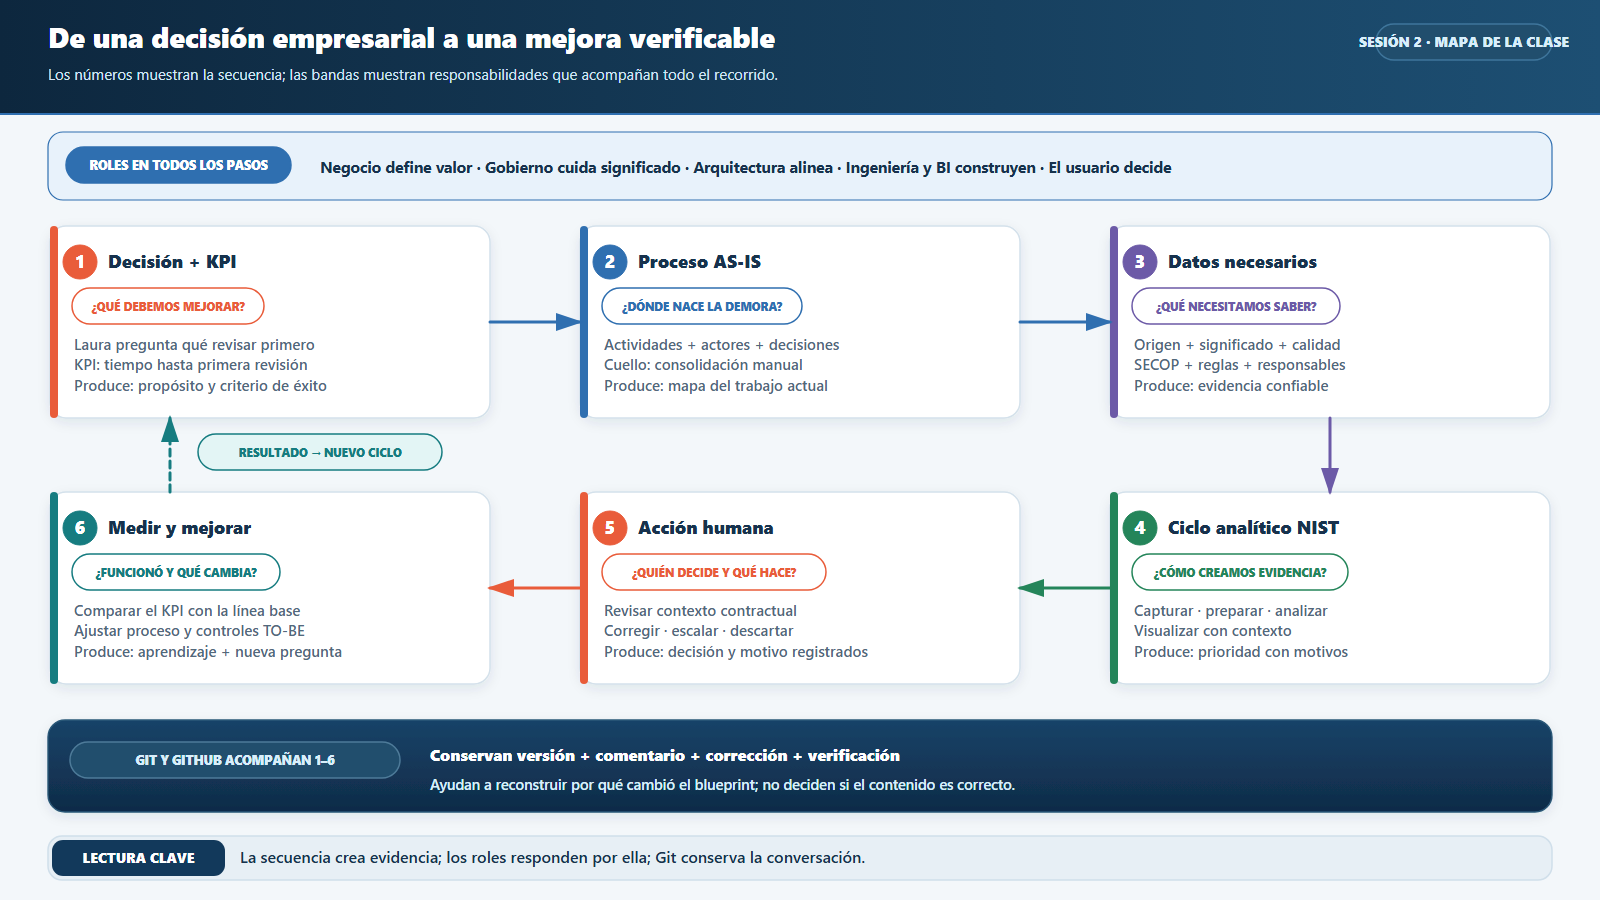
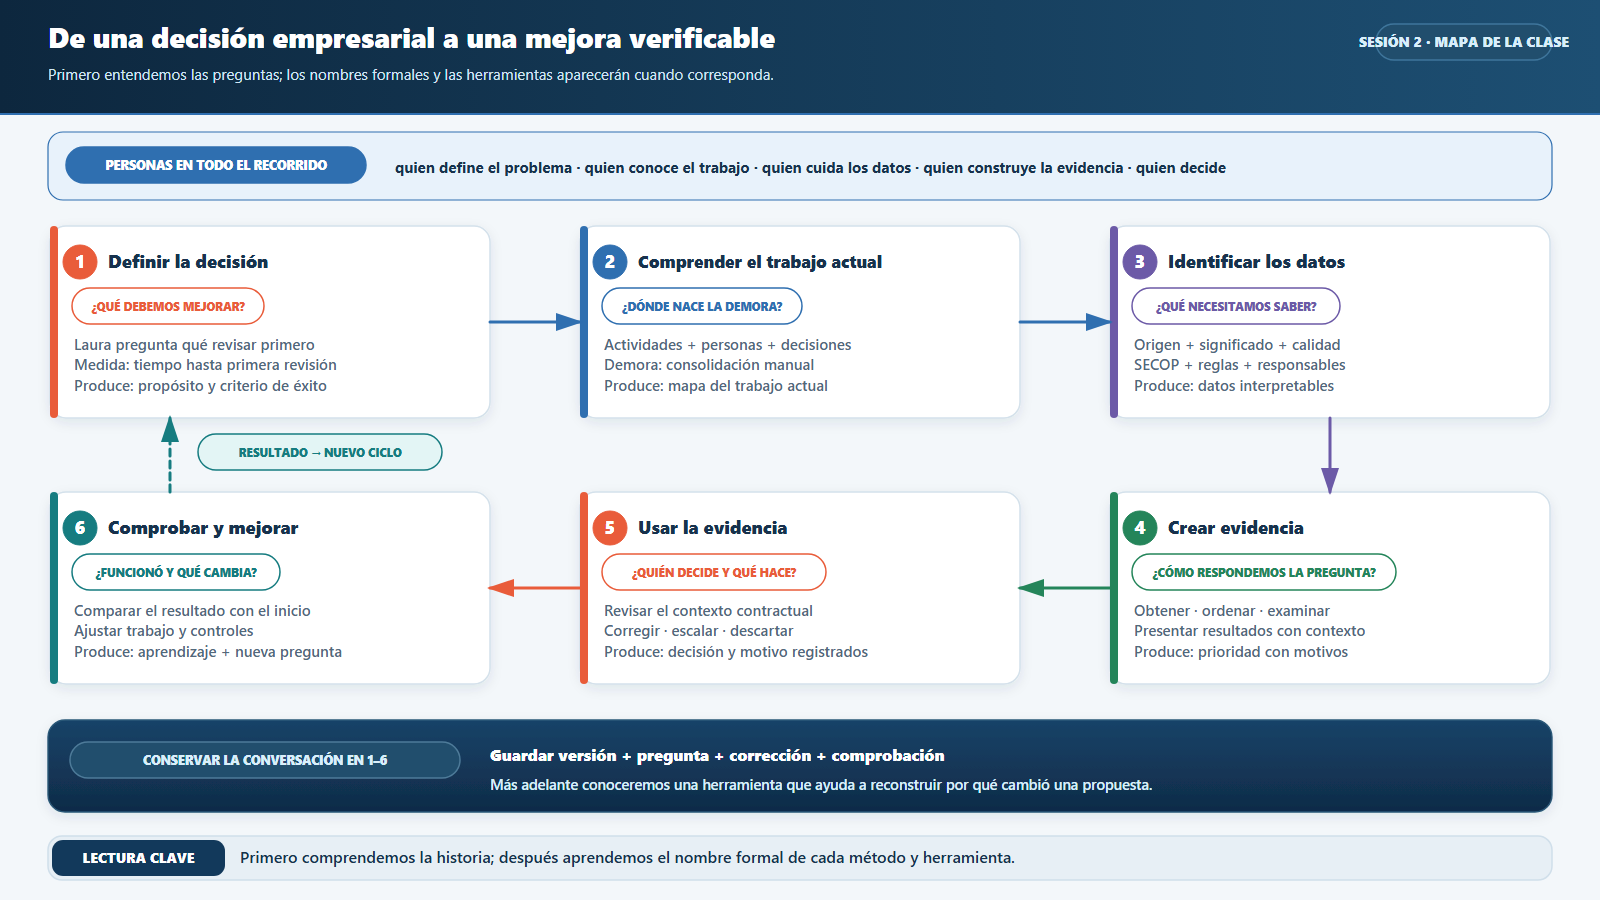
Evita conceptos adelantados en el mapa inicial

diff --git a/utils/build_session2_notebook.py b/utils/build_session2_notebook.py
@@ -155,6 +155,9 @@ def build_cells():
             8. explicar cómo rama, commit, Pull Request, revisión y CI pueden conservar la conversación entre roles;
             9. comunicar límites: una alerta descriptiva prioriza revisión, pero no prueba causalidad ni irregularidad.
 
+            > **No necesitas conocer todavía todas estas expresiones.** Los objetivos nombran el destino de la clase;
+            > cada concepto se definirá, ejemplificará y aplicará antes de pedirte que lo uses.
+
             **Producto de la sesión:** el primer hito del proyecto semestral: blueprint de Compras Claras y ficha de
             transferencia a un caso laboral. Cada decisión queda explicada, revisada y reproducible; no se elegirá
             una plataforma Big Data sin demostrar primero por qué la organización la necesita.
@@ -171,14 +174,16 @@ def build_cells():
 
             El orden de la clase sigue el viaje real de esa evidencia:
 
-            1. **La decisión** define para qué necesitamos información y qué KPI permitirá evaluar la mejora.
+            1. **La decisión** define para qué necesitamos información y qué medida permitirá evaluar la mejora.
             2. **La motivación y la preparación** comprueban si Big Data responde a una necesidad o solo a una moda.
-            3. **El proceso BPM** muestra quién trabaja, dónde se decide y en qué actividad nace cada dato.
+            3. **El trabajo actual** muestra quién participa, dónde se decide y en qué actividad nace cada dato.
             4. **El caso de uso** conecta usuario, decisión, evidencia, acción y valor verificable.
-            5. **BI tradicional frente a Big Data** se decide por requisitos, no por prestigio de la herramienta.
-            6. **La arquitectura y el ciclo NIST** asignan capacidades, controles y responsables de extremo a extremo.
-            7. **Los roles conversan** sobre el blueprint; Git y GitHub permiten conservar propuesta, objeción,
-               corrección y validación sin convertir los comandos en el objetivo de aprendizaje.
+            5. **La capacidad suficiente** se elige por requisitos, no por prestigio de la herramienta.
+            6. **La organización de la solución** conecta negocio, datos, herramientas, infraestructura y el recorrido
+               de la evidencia hasta una acción.
+            7. **Las personas conversan** sobre la propuesta y necesitan conservar preguntas, correcciones y acuerdos.
+
+            Los nombres formales de estas ideas aparecerán en su bloque, después de comprender el problema que resuelven.
 
             **Punto de partida.** No se presupone experiencia previa en Bash, Git, nube o contenedores. El flujo
             principal se realiza en GitHub.com. Los estados internos de Git y la terminal aparecen solo como
@@ -194,14 +199,14 @@ def build_cells():
 
             | Minutos | Pregunta que conduce el bloque | Resultado |
             |---:|---|---|
-            | 0–8 | ¿Qué debe decidir la analista y cómo sabrá si mejora? | responsable, alcance y KPI |
+            | 0–8 | ¿Qué debe decidir la analista y cómo sabrá si mejora? | responsable, alcance y medida de éxito |
             | 8–20 | ¿Por qué adoptar Big Data y qué debe estar preparado? | motivación, valor, viabilidad y riesgos |
-            | 20–37 | ¿Qué ocurre hoy y quién responde por cada parte? | proceso AS-IS, roles, datos y cuello de botella |
-            | 37–50 | ¿Qué caso de uso existe y basta la BI actual? | ficha del caso y decisión de suficiencia |
-            | 50–65 | ¿Cómo se alinean todas las piezas? | arquitectura empresarial TO-BE |
-            | 65–77 | ¿Cómo recorre la evidencia el ciclo analítico? | cinco etapas de NIST |
+            | 20–37 | ¿Qué ocurre hoy y quién responde por cada parte? | trabajo actual, personas, datos y cuello de botella |
+            | 37–50 | ¿Qué caso de uso existe y basta la capacidad actual? | ficha del caso y decisión de suficiencia |
+            | 50–65 | ¿Cómo se relacionan todas las piezas? | organización objetivo de la solución |
+            | 65–77 | ¿Cómo pasan los datos a convertirse en una acción? | cinco etapas conectadas y sus responsables |
             | 77–84 | ¿Qué capacidades y herramientas son proporcionales? | alternativas justificadas |
-            | 84–90 | ¿Cómo conversan los roles sin perder lo acordado? | Git/GitHub como puente de colaboración |
+            | 84–90 | ¿Cómo conversa el equipo sin perder lo acordado? | propuesta, comentario, corrección y versión |
 
             ### Últimos 90 minutos — construir evidencia
 
@@ -210,9 +215,9 @@ def build_cells():
             | 90–98 | Abrir el repositorio y reconocer artefactos | archivos y roles temporales identificados |
             | 98–118 | Analizar decisión, evidencia, proceso y KPI | primer artefacto argumentado |
             | 118–138 | Formular caso y veredicto BI/Big Data | suficiencia sustentada con requisitos |
-            | 138–153 | Completar arquitectura, NIST y responsabilidades | segundo artefacto coherente |
+            | 138–153 | Organizar la solución, el recorrido de la evidencia y las responsabilidades | segundo artefacto coherente |
             | 153–165 | Revisar desde el rol contrario | objeción y corrección justificadas |
-            | 165–175 | Observar comentario, cambio y versión en GitHub | conversación conservada en un PR |
+            | 165–175 | Observar comentario, cambio y versión compartida | conversación conservada para revisión |
             | 175–180 | Ticket de salida | decisión, rol crítico y límite |
             """
         ),
@@ -404,43 +409,46 @@ def build_cells():
             f"""
             ## El hilo que seguiremos durante toda la sesión
 
-            {diagram('01_hilo_decision', 'Secuencia de la Sesión 2: decisión, proceso actual, datos, ciclo NIST, acción humana y mejora; roles y Git aparecen como soportes transversales')}
+            {diagram('01_hilo_decision', 'Historia de la Sesión 2 en lenguaje cotidiano: definir la decisión, comprender el trabajo, identificar datos, crear evidencia, usarla y comprobar la mejora')}
 
             ### Antes de seguir las flechas
 
             La imagen contiene **tres tipos de información diferentes**. No deben leerse como una sola lista:
 
             - las **seis tarjetas numeradas** forman la secuencia principal del caso;
-            - la **banda superior** indica que los roles participan durante todo el recorrido, no en un paso aislado;
-            - la **banda inferior** indica que Git y GitHub pueden conservar versiones y conversaciones durante los
-              seis pasos; no son una etapa del proceso contractual ni deciden si una propuesta es correcta.
+            - la **banda superior** recuerda que distintas personas aportan durante todo el recorrido;
+            - la **banda inferior** muestra la necesidad de conservar versiones, preguntas y correcciones. La
+              herramienta concreta para hacerlo se presentará solamente cuando lleguemos a ese problema.
+
+            En este mapa se usa deliberadamente lenguaje cotidiano. No necesitas conocer todavía nombres de
+            metodologías, disciplinas, diagramas o herramientas.
 
             ### Qué significa cada paso y por qué conduce al siguiente
 
             | Paso | Pregunta que responde | Qué ocurre en Compras Claras | Producto que permite avanzar |
             |---:|---|---|---|
-            | 1. Decisión + KPI | ¿qué debemos mejorar y cómo sabremos si funcionó? | Laura necesita priorizar revisiones y se mide el tiempo hasta la primera revisión | propósito, responsable y KPI verificable |
-            | 2. Proceso AS-IS | ¿dónde nace la demora? | se reconstruyen actividades, actores, decisiones y consolidación manual | mapa del trabajo actual y cuello de botella |
-            | 3. Datos necesarios | ¿qué debemos saber para intervenir ese punto? | se definen estados, fechas, duraciones, significado, calidad y responsables | datos autorizados con reglas de interpretación |
-            | 4. Ciclo NIST | ¿cómo convertimos esos datos en evidencia? | se captura, prepara, analiza y visualiza una prioridad explicable | cola candidata con motivos y límites visibles |
-            | 5. Acción humana | ¿quién decide y qué hace con la evidencia? | la analista revisa contexto, corrige, escala o descarta y registra el motivo | decisión humana trazable, no acusación automática |
-            | 6. Medir y mejorar | ¿la intervención redujo la demora sin crear un riesgo mayor? | se compara el KPI con la línea base y se ajustan proceso y controles TO-BE | aprendizaje, proceso mejorado y una nueva pregunta |
+            | 1. Definir la decisión | ¿qué debemos mejorar y cómo sabremos si funcionó? | Laura necesita priorizar revisiones y se mide el tiempo hasta la primera revisión | propósito, responsable y medida de éxito |
+            | 2. Comprender el trabajo actual | ¿dónde nace la demora? | se reconstruyen actividades, personas, decisiones y consolidación manual | mapa del trabajo actual y cuello de botella |
+            | 3. Identificar los datos | ¿qué debemos saber para intervenir ese punto? | se definen estados, fechas, duraciones, significado, calidad y responsables | datos autorizados con reglas de interpretación |
+            | 4. Crear evidencia | ¿cómo usamos los datos para responder la pregunta? | se obtienen, ordenan y examinan los registros; después se presentan resultados con contexto | prioridad candidata con motivos y límites visibles |
+            | 5. Usar la evidencia | ¿quién decide y qué hace con ella? | la analista revisa contexto, corrige, escala o descarta y registra el motivo | decisión humana trazable, no acusación automática |
+            | 6. Comprobar y mejorar | ¿la intervención redujo la demora sin crear un riesgo mayor? | se compara el resultado con el punto de partida y se ajustan trabajo y controles | aprendizaje, trabajo mejorado y una nueva pregunta |
 
-            **Ejemplo completo.** Si la línea base muestra tres días entre actualización y revisión, el proceso AS-IS
-            ayuda a localizar la consolidación manual. Los campos de SECOP permiten construir una cola diaria con
+            **Ejemplo completo.** Si el punto de partida muestra tres días entre actualización y revisión, observar
+            el trabajo actual ayuda a localizar la consolidación manual. Los campos de SECOP permiten construir una cola diaria con
             motivos visibles. Laura revisa cada caso y registra el resultado. Solo entonces se compara el nuevo tiempo
             con la línea base para decidir si la solución se mantiene, se corrige o se detiene.
 
-            **Qué no significa la imagen.** Los roles no trabajan uno después de otro; acompañan los pasos donde su
-            responsabilidad es necesaria. Git tampoco produce la prioridad: conserva qué se propuso, quién objetó,
-            qué cambió y qué versión fue revisada. El ciclo NIST apoya una acción humana, no una decisión automática.
+            **Qué no significa la imagen.** Las personas no trabajan necesariamente una después de otra; aportan donde
+            su responsabilidad es necesaria. Conservar una versión tampoco produce la prioridad: solo permite reconstruir
+            qué se propuso, qué se preguntó y qué se corrigió. Crear evidencia no equivale a decidir automáticamente.
 
-            **Conclusión.** La arquitectura es defendible cuando cada componente puede señalar la decisión, el proceso,
-            el dato, el responsable y el KPI que justifican su existencia.
+            **Conclusión.** Una solución es defendible cuando cada componente puede señalar la decisión, el trabajo,
+            el dato, la persona responsable y la medida que justifican su existencia.
 
             **Limitación y conexión.** Este primer mapa muestra la lógica general, pero todavía no detalla cada tarea
             contractual. Primero comprobaremos si existe una motivación y preparación reales; después abriremos el
-            proceso AS-IS actividad por actividad.
+            trabajo actual actividad por actividad y aprenderemos el nombre formal de esa representación.
             """
         ),
         question_cell(

diff --git a/utils/build_session2_visuals.py b/utils/build_session2_visuals.py
@@ -233,29 +233,29 @@ def make_hilo() -> Canvas:
     c.header(
         "SESIÓN 2 · MAPA DE LA CLASE",
         "De una decisión empresarial a una mejora verificable",
-        "Los números muestran la secuencia; las bandas muestran responsabilidades que acompañan todo el recorrido.",
+        "Primero entendemos las preguntas; los nombres formales y las herramientas aparecerán cuando corresponda.",
     )
 
-    # Los roles son una dimensión transversal, no un paso aislado.
+    # La primera lectura usa lenguaje cotidiano. Los nombres formales se enseñan en los bloques posteriores.
     c.rect(48, 132, 1504, 68, fill=BLUE_L, stroke=BLUE, sw=1.2, rx=15)
-    c.pill(66, 147, 225, "ROLES EN TODOS LOS PASOS", fill=BLUE, color=WHITE, stroke=BLUE, size=12.5)
+    c.pill(66, 147, 300, "PERSONAS EN TODO EL RECORRIDO", fill=BLUE, color=WHITE, stroke=BLUE, size=12.5)
     c.text(
-        320,
+        395,
         173,
-        "Negocio define valor · Gobierno cuida significado · Arquitectura alinea · Ingeniería y BI construyen · El usuario decide",
-        size=15.5,
+        "quien define el problema · quien conoce el trabajo · quien cuida los datos · quien construye la evidencia · quien decide",
+        size=15,
         fill=INK,
         weight=700,
     )
 
     # Secuencia principal: tres pasos arriba y tres abajo. El recorrido continúa en forma de U.
-    c.card(50, 226, 440, 192, "Decisión + KPI", ["Laura pregunta qué revisar primero", "KPI: tiempo hasta primera revisión", "Produce: propósito y criterio de éxito"], ORANGE, number=1, tag="¿QUÉ DEBEMOS MEJORAR?", title_size=18)
-    c.card(580, 226, 440, 192, "Proceso AS-IS", ["Actividades + actores + decisiones", "Cuello: consolidación manual", "Produce: mapa del trabajo actual"], BLUE, number=2, tag="¿DÓNDE NACE LA DEMORA?", title_size=18)
-    c.card(1110, 226, 440, 192, "Datos necesarios", ["Origen + significado + calidad", "SECOP + reglas + responsables", "Produce: evidencia confiable"], PURPLE, number=3, tag="¿QUÉ NECESITAMOS SABER?", title_size=18)
+    c.card(50, 226, 440, 192, "Definir la decisión", ["Laura pregunta qué revisar primero", "Medida: tiempo hasta primera revisión", "Produce: propósito y criterio de éxito"], ORANGE, number=1, tag="¿QUÉ DEBEMOS MEJORAR?", title_size=18)
+    c.card(580, 226, 440, 192, "Comprender el trabajo actual", ["Actividades + personas + decisiones", "Demora: consolidación manual", "Produce: mapa del trabajo actual"], BLUE, number=2, tag="¿DÓNDE NACE LA DEMORA?", title_size=17)
+    c.card(1110, 226, 440, 192, "Identificar los datos", ["Origen + significado + calidad", "SECOP + reglas + responsables", "Produce: datos interpretables"], PURPLE, number=3, tag="¿QUÉ NECESITAMOS SABER?", title_size=18)
 
-    c.card(1110, 492, 440, 192, "Ciclo analítico NIST", ["Capturar · preparar · analizar", "Visualizar con contexto", "Produce: prioridad con motivos"], GREEN, number=4, tag="¿CÓMO CREAMOS EVIDENCIA?", title_size=18)
-    c.card(580, 492, 440, 192, "Acción humana", ["Revisar contexto contractual", "Corregir · escalar · descartar", "Produce: decisión y motivo registrados"], ORANGE, number=5, tag="¿QUIÉN DECIDE Y QUÉ HACE?", title_size=18)
-    c.card(50, 492, 440, 192, "Medir y mejorar", ["Comparar el KPI con la línea base", "Ajustar proceso y controles TO-BE", "Produce: aprendizaje + nueva pregunta"], TEAL, number=6, tag="¿FUNCIONÓ Y QUÉ CAMBIA?", title_size=18)
+    c.card(1110, 492, 440, 192, "Crear evidencia", ["Obtener · ordenar · examinar", "Presentar resultados con contexto", "Produce: prioridad con motivos"], GREEN, number=4, tag="¿CÓMO RESPONDEMOS LA PREGUNTA?", title_size=18)
+    c.card(580, 492, 440, 192, "Usar la evidencia", ["Revisar el contexto contractual", "Corregir · escalar · descartar", "Produce: decisión y motivo registrados"], ORANGE, number=5, tag="¿QUIÉN DECIDE Y QUÉ HACE?", title_size=18)
+    c.card(50, 492, 440, 192, "Comprobar y mejorar", ["Comparar el resultado con el inicio", "Ajustar trabajo y controles", "Produce: aprendizaje + nueva pregunta"], TEAL, number=6, tag="¿FUNCIONÓ Y QUÉ CAMBIA?", title_size=18)
 
     # Flechas de la secuencia. Git no aparece aquí porque no es una etapa del negocio.
     c.line(490, 322, 580, 322, stroke=BLUE, marker="blue")
@@ -266,13 +266,13 @@ def make_hilo() -> Canvas:
     c.path("M170 492 C170 458 170 452 170 418", stroke=TEAL, sw=3, arrow=True, dash="7 5", marker="teal")
     c.pill(198, 434, 244, "RESULTADO → NUEVO CICLO", fill=TEAL_L, color=TEAL, stroke=TEAL, size=11.5)
 
-    # Git y GitHub acompañan el trabajo; no sustituyen el juicio profesional.
+    # La necesidad de conservar la conversación aparece antes de presentar una herramienta concreta.
     c.rect(48, 720, 1504, 92, fill="url(#navy-card-grad)", stroke="#2A5878", sw=1.4, rx=17, shadow=True)
-    c.pill(70, 742, 330, "GIT Y GITHUB ACOMPAÑAN 1–6", fill="#214E6D", color="#D9EFFB", stroke="#4E7B99", size=12.5)
-    c.text(430, 761, "Conservan versión + comentario + corrección + verificación", size=16, fill=WHITE, weight=800)
-    c.text(430, 790, "Ayudan a reconstruir por qué cambió el blueprint; no deciden si el contenido es correcto.", size=14.5, fill="#D9EFFB", weight=500)
+    c.pill(70, 742, 390, "CONSERVAR LA CONVERSACIÓN EN 1–6", fill="#214E6D", color="#D9EFFB", stroke="#4E7B99", size=12.5)
+    c.text(490, 761, "Guardar versión + pregunta + corrección + comprobación", size=16, fill=WHITE, weight=800)
+    c.text(490, 790, "Más adelante conoceremos una herramienta que ayuda a reconstruir por qué cambió una propuesta.", size=14.5, fill="#D9EFFB", weight=500)
 
-    c.footer("LECTURA CLAVE", "La secuencia crea evidencia; los roles responden por ella; Git conserva la conversación.")
+    c.footer("LECTURA CLAVE", "Primero comprendemos la historia; después aprendemos el nombre formal de cada método y herramienta.")
     return c
 
 
